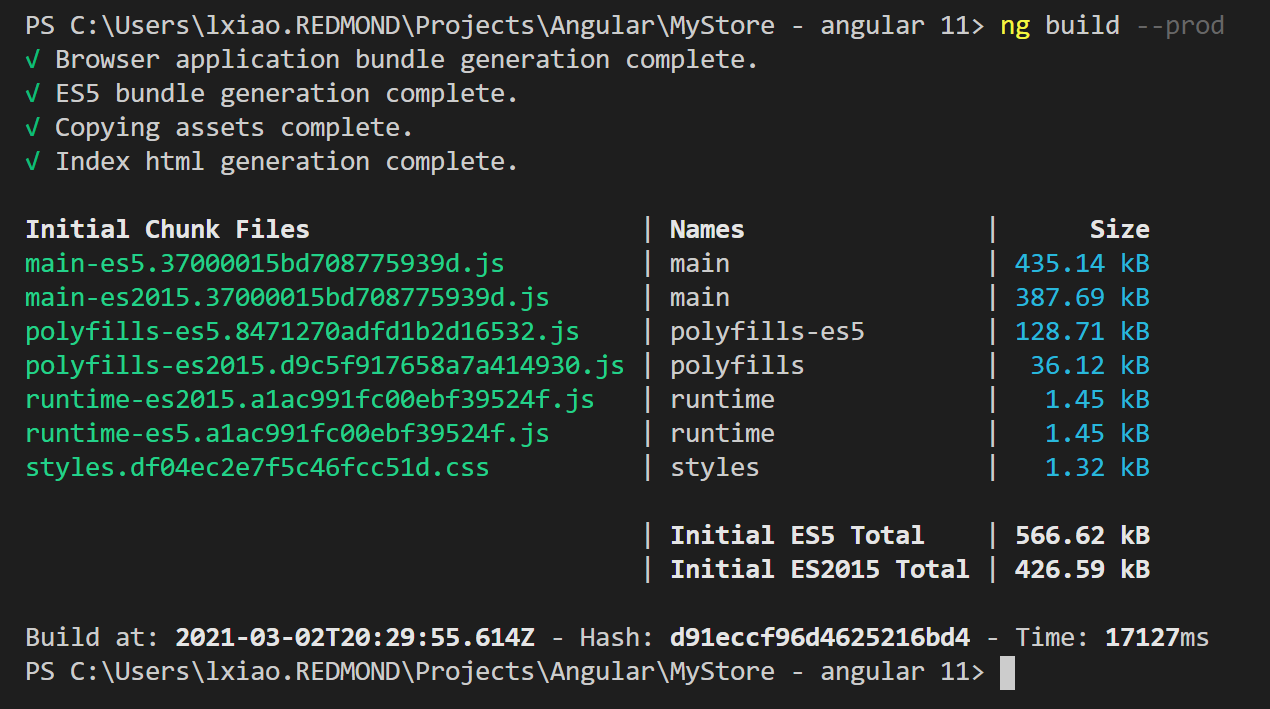
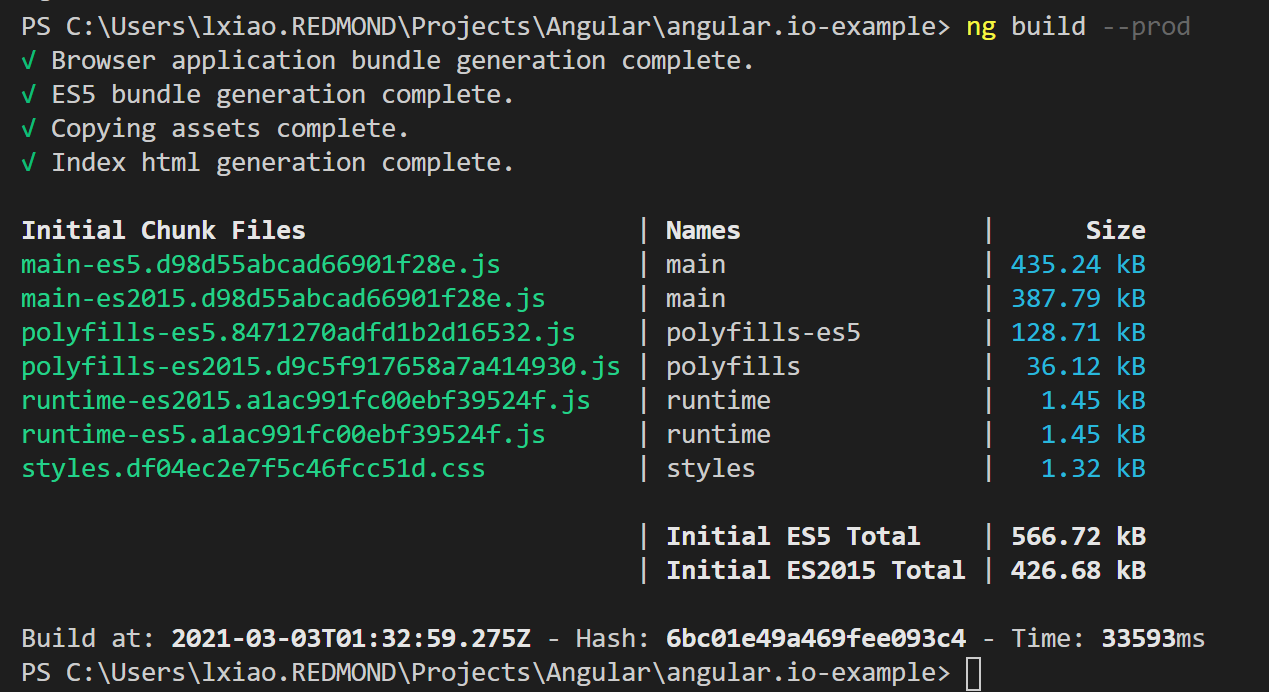
update to use snippet

diff --git a/src/index.html b/src/index.html
@@ -1,6 +1,19 @@
 <!DOCTYPE html>
 <html lang="en">
   <head>
+    <script type="text/javascript">
+      !function(T,l,y){var S=T.location,k="script",D="instrumentationKey",C="ingestionendpoint",I="disableExceptionTracking",E="ai.device.",b="toLowerCase",w="crossOrigin",N="POST",e="appInsightsSDK",t=y.name||"appInsights";(y.name||T[e])&&(T[e]=t);var n=T[t]||function(d){var g=!1,f=!1,m={initialize:!0,queue:[],sv:"5",version:2,config:d};function v(e,t){var n={},a="Browser";return n[E+"id"]=a[b](),n[E+"type"]=a,n["ai.operation.name"]=S&&S.pathname||"_unknown_",n["ai.internal.sdkVersion"]="javascript:snippet_"+(m.sv||m.version),{time:function(){var e=new Date;function t(e){var t=""+e;return 1===t.length&&(t="0"+t),t}return e.getUTCFullYear()+"-"+t(1+e.getUTCMonth())+"-"+t(e.getUTCDate())+"T"+t(e.getUTCHours())+":"+t(e.getUTCMinutes())+":"+t(e.getUTCSeconds())+"."+((e.getUTCMilliseconds()/1e3).toFixed(3)+"").slice(2,5)+"Z"}(),iKey:e,name:"Microsoft.ApplicationInsights."+e.replace(/-/g,"")+"."+t,sampleRate:100,tags:n,data:{baseData:{ver:2}}}}var h=d.url||y.src;if(h){function a(e){var t,n,a,i,r,o,s,c,u,p,l;g=!0,m.queue=[],f||(f=!0,t=h,s=function(){var e={},t=d.connectionString;if(t)for(var n=t.split(";"),a=0;a<n.length;a++){var i=n[a].split("=");2===i.length&&(e[i[0][b]()]=i[1])}if(!e[C]){var r=e.endpointsuffix,o=r?e.location:null;e[C]="https://"+(o?o+".":"")+"dc."+(r||"services.visualstudio.com")}return e}(),c=s[D]||d[D]||"",u=s[C],p=u?u+"/v2/track":d.endpointUrl,(l=[]).push((n="SDK LOAD Failure: Failed to load Application Insights SDK script (See stack for details)",a=t,i=p,(o=(r=v(c,"Exception")).data).baseType="ExceptionData",o.baseData.exceptions=[{typeName:"SDKLoadFailed",message:n.replace(/\./g,"-"),hasFullStack:!1,stack:n+"\nSnippet failed to load ["+a+"] -- Telemetry is disabled\nHelp Link: https://go.microsoft.com/fwlink/?linkid=2128109\nHost: "+(S&&S.pathname||"_unknown_")+"\nEndpoint: "+i,parsedStack:[]}],r)),l.push(function(e,t,n,a){var i=v(c,"Message"),r=i.data;r.baseType="MessageData";var o=r.baseData;return o.message='AI (Internal): 99 message:"'+("SDK LOAD Failure: Failed to load Application Insights SDK script (See stack for details) ("+n+")").replace(/\"/g,"")+'"',o.properties={endpoint:a},i}(0,0,t,p)),function(e,t){if(JSON){var n=T.fetch;if(n&&!y.useXhr)n(t,{method:N,body:JSON.stringify(e),mode:"cors"});else if(XMLHttpRequest){var a=new XMLHttpRequest;a.open(N,t),a.setRequestHeader("Content-type","application/json"),a.send(JSON.stringify(e))}}}(l,p))}function i(e,t){f||setTimeout(function(){!t&&m.core||a()},500)}var e=function(){var n=l.createElement(k);n.src=h;var e=y[w];return!e&&""!==e||"undefined"==n[w]||(n[w]=e),n.onload=i,n.onerror=a,n.onreadystatechange=function(e,t){"loaded"!==n.readyState&&"complete"!==n.readyState||i(0,t)},n}();y.ld<0?l.getElementsByTagName("head")[0].appendChild(e):setTimeout(function(){l.getElementsByTagName(k)[0].parentNode.appendChild(e)},y.ld||0)}try{m.cookie=l.cookie}catch(p){}function t(e){for(;e.length;)!function(t){m[t]=function(){var e=arguments;g||m.queue.push(function(){m[t].apply(m,e)})}}(e.pop())}var n="track",r="TrackPage",o="TrackEvent";t([n+"Event",n+"PageView",n+"Exception",n+"Trace",n+"DependencyData",n+"Metric",n+"PageViewPerformance","start"+r,"stop"+r,"start"+o,"stop"+o,"addTelemetryInitializer","setAuthenticatedUserContext","clearAuthenticatedUserContext","flush"]),m.SeverityLevel={Verbose:0,Information:1,Warning:2,Error:3,Critical:4};var s=(d.extensionConfig||{}).ApplicationInsightsAnalytics||{};if(!0!==d[I]&&!0!==s[I]){var c="onerror";t(["_"+c]);var u=T[c];T[c]=function(e,t,n,a,i){var r=u&&u(e,t,n,a,i);return!0!==r&&m["_"+c]({message:e,url:t,lineNumber:n,columnNumber:a,error:i}),r},d.autoExceptionInstrumented=!0}return m}(y.cfg);function a(){y.onInit&&y.onInit(n)}(T[t]=n).queue&&0===n.queue.length?(n.queue.push(a),n.trackPageView({})):a()}(window,document,{
+      src: "https://js.monitor.azure.com/scripts/b/ai.2.min.js", // The SDK URL Source
+      // name: "appInsights", // Global SDK Instance name defaults to "appInsights" when not supplied
+      // ld: 0, // Defines the load delay (in ms) before attempting to load the sdk. -1 = block page load and add to head. (default) = 0ms load after timeout,
+      // useXhr: 1, // Use XHR instead of fetch to report failures (if available),
+      crossOrigin: "anonymous", // When supplied this will add the provided value as the cross origin attribute on the script tag
+      // onInit: null, // Once the application insights instance has loaded and initialized this callback function will be called with 1 argument -- the sdk instance (DO NOT ADD anything to the sdk.queue -- As they won't get called)
+      cfg: { // Application Insights Configuration
+          instrumentationKey: "<YOUR IKEY>",
+          enableAutoRouteTracking: true
+      }});
+      </script>
     <meta charset="utf-8" />
     <title>Angular Getting Started</title>
     <base href="/" />

diff --git a/src/app/app-shell/app-shell.component.spec.ts b/src/app/app-shell/app-shell.component.spec.ts
@@ -1,0 +1,25 @@
+import { ComponentFixture, TestBed } from '@angular/core/testing';
+
+import { AppShellComponent } from './app-shell.component';
+
+describe('AppShellComponent', () => {
+  let component: AppShellComponent;
+  let fixture: ComponentFixture<AppShellComponent>;
+
+  beforeEach(async () => {
+    await TestBed.configureTestingModule({
+      declarations: [ AppShellComponent ]
+    })
+    .compileComponents();
+  });
+
+  beforeEach(() => {
+    fixture = TestBed.createComponent(AppShellComponent);
+    component = fixture.componentInstance;
+    fixture.detectChanges();
+  });
+
+  it('should create', () => {
+    expect(component).toBeTruthy();
+  });
+});

diff --git a/src/app/app.server.module.ts b/src/app/app.server.module.ts
@@ -1,0 +1,20 @@
+import { NgModule } from '@angular/core';
+import { ServerModule } from '@angular/platform-server';
+
+import { AppModule } from './app.module';
+import { AppComponent } from './app.component';
+import { Routes, RouterModule } from '@angular/router';
+import { AppShellComponent } from './app-shell/app-shell.component';
+
+const routes: Routes = [ { path: 'shell', component: AppShellComponent }];
+
+@NgModule({
+  imports: [
+    AppModule,
+    ServerModule,
+    RouterModule.forRoot(routes),
+  ],
+  bootstrap: [AppComponent],
+  declarations: [AppShellComponent],
+})
+export class AppServerModule {}

diff --git a/src/app/app.module.ts b/src/app/app.module.ts
@@ -15,7 +15,7 @@ import { ShippingComponent } from './shipping/shipping.component';
 
 @NgModule({
   imports: [
-    BrowserModule,
+    BrowserModule.withServerTransition({ appId: 'serverApp' }),
     HttpClientModule,
     ReactiveFormsModule,
     RouterModule.forRoot([
@@ -23,7 +23,8 @@ import { ShippingComponent } from './shipping/shipping.component';
       { path: 'products/:productId', component: ProductDetailsComponent },
       { path: 'cart', component: CartComponent },
       { path: 'shipping', component: ShippingComponent },
-    ])
+    ]),
+    RouterModule
   ],
   declarations: [
     AppComponent,

diff --git a/src/main.server.ts b/src/main.server.ts
@@ -1,0 +1,10 @@
+import { enableProdMode } from '@angular/core';
+
+import { environment } from './environments/environment';
+
+if (environment.production) {
+  enableProdMode();
+}
+
+export { AppServerModule } from './app/app.server.module';
+export { renderModule, renderModuleFactory } from '@angular/platform-server';

diff --git a/src/app/app-shell/app-shell.component.ts b/src/app/app-shell/app-shell.component.ts
@@ -1,0 +1,15 @@
+import { Component, OnInit } from '@angular/core';
+
+@Component({
+  selector: 'app-app-shell',
+  templateUrl: './app-shell.component.html',
+  styleUrls: ['./app-shell.component.css']
+})
+export class AppShellComponent implements OnInit {
+
+  constructor() { }
+
+  ngOnInit(): void {
+  }
+
+}

diff --git a/src/main.ts b/src/main.ts
@@ -8,5 +8,7 @@ if (environment.production) {
   enableProdMode();
 }
 
-platformBrowserDynamic().bootstrapModule(AppModule)
+document.addEventListener('DOMContentLoaded', () => {
+  platformBrowserDynamic().bootstrapModule(AppModule)
   .catch(err => console.error(err));
+});

diff --git a/src/app/app.component.ts b/src/app/app.component.ts
@@ -20,6 +20,6 @@ export class AppComponent {
         }
       }
     } });
-    appInsights.loadAppInsights();
+    // appInsights.loadAppInsights();
   }
 }

diff --git a/src/app/app-shell/app-shell.component.html b/src/app/app-shell/app-shell.component.html
@@ -1,0 +1,1 @@
+<p>app-shell works!</p>

diff --git a/README.md b/README.md
@@ -3,8 +3,12 @@
 
 2. Replace your ikey in `app.component.ts` file.
 
-3. `ng serve`
+3. `ng serve` - **Dev build works fine**
 ![Image](./2.png)
 
-4. `ng build --prod`
+4. `ng build --prod` - **Regular Prod build works fine**
 ![Image](./1.png)
+
+5. `ng run angular.io-example:app-shell:production` - **App Shell Prod build NOT WORKNING, TIMEOUT**
+![Image](./3.png)
+solution : to use [Snippt setup](https://github.com/microsoft/ApplicationInsights-JS#snippet-setup-ignore-if-using-npm-setup) instead of [NPM setup](https://github.com/microsoft/ApplicationInsights-JS#npm-setup-ignore-if-using-snippet-setup) AppInsights. Remember to configure [enableAutoRouteTracking: true](https://github.com/microsoft/ApplicationInsights-JS#single-page-applications).
